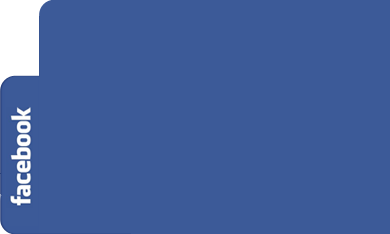
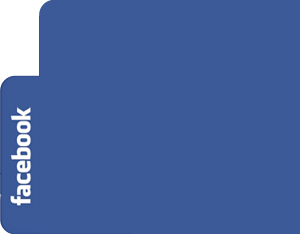
fb terminado

diff --git a/index.html b/index.html
@@ -8,7 +8,7 @@ jQuery(function (){
 jQuery(".s_likebox").hover(function(){
 jQuery(".s_likebox").stop(true, false).animate({right:"0"},"medium");
 },function(){
-jQuery(".s_likebox").stop(true, false).animate({right:"-352"},"medium");
+jQuery(".s_likebox").stop(true, false).animate({right:"-262"},"medium");
 },500);
 return false;
 });
